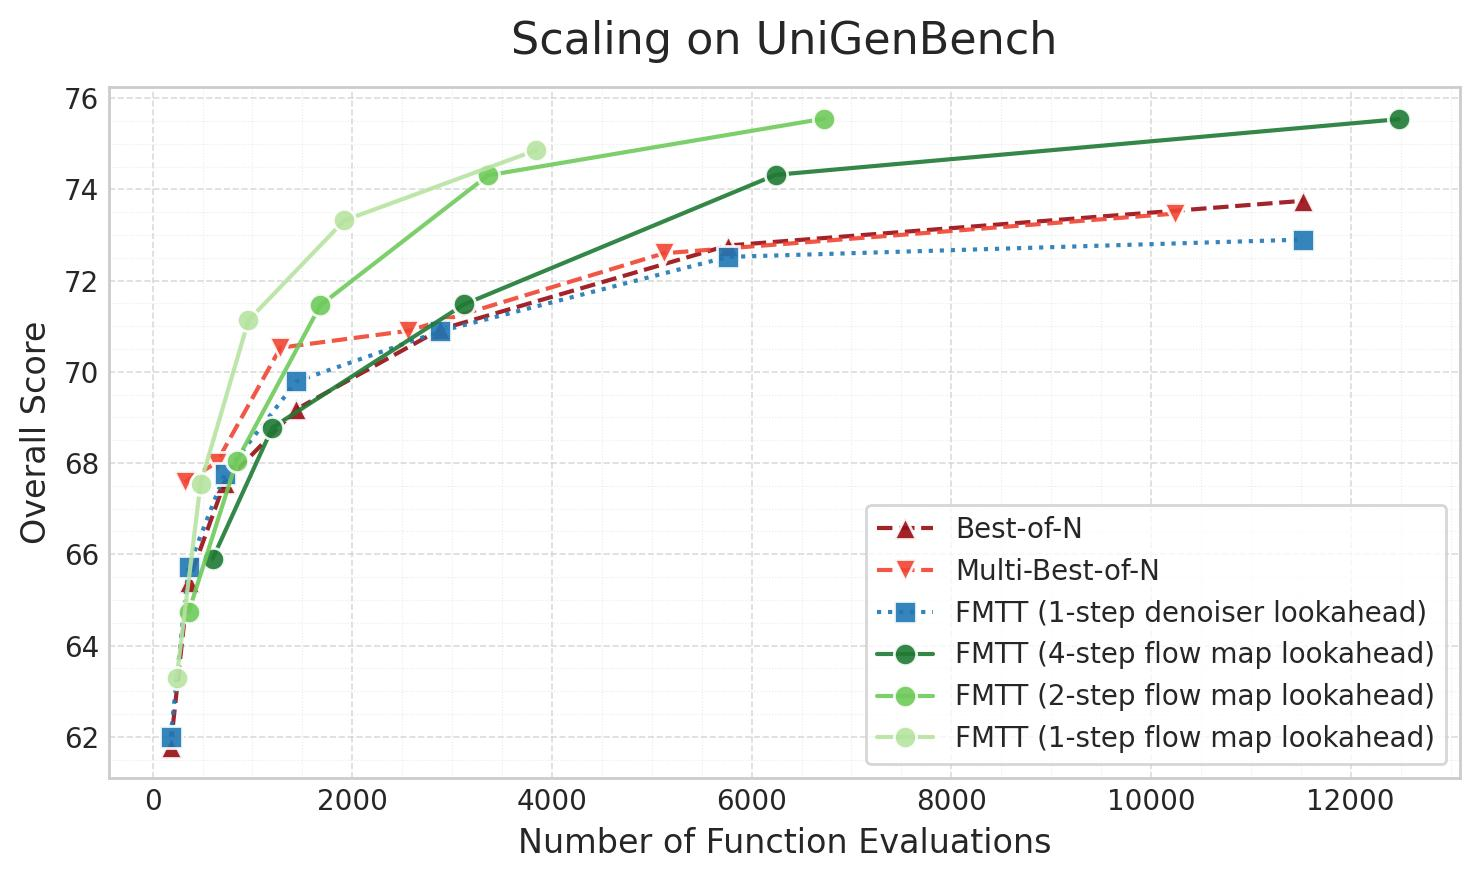
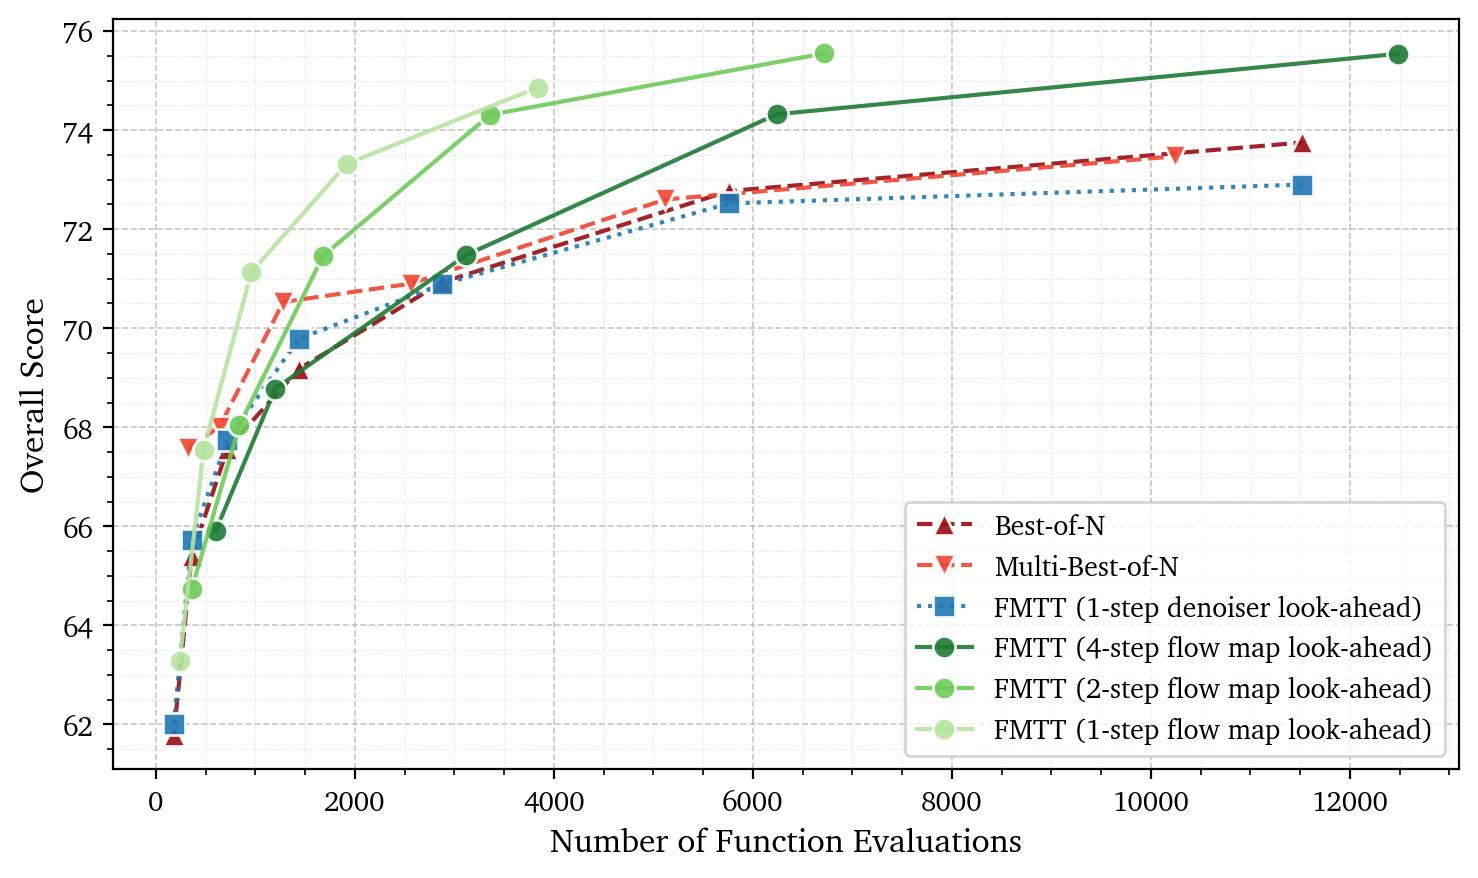
Update plot fonts.

diff --git a/index.html b/index.html
@@ -470,7 +470,7 @@
         </p>
     </div>
 
-    <div class="container blog main">
+    <div class="container blog large">
         <img src="assets/figures/scaling_unigenbench.jpg" style="width: 90%;">
         <p class="caption">
             Scaling results on UniGenBench++ showing overall score versus compute. FMTT significantly out-performs prior methods, achieving higher scores at lower NFEs. 
